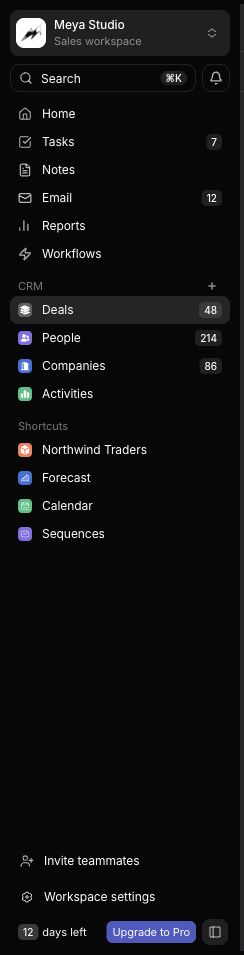
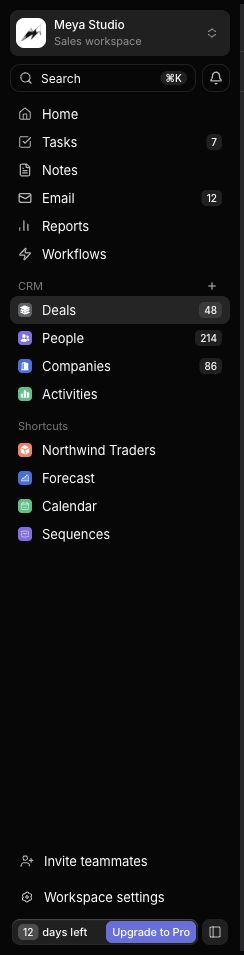
fix: restore trial glass background and enlarge sidebar menu text

diff --git a/src/styles.css b/src/styles.css
@@ -260,6 +260,7 @@ kbd {
   flex-direction: column;
 }
 .nav-item {
+  font-size: 13px;
   display: flex;
   align-items: center;
   gap: 10px;
@@ -331,8 +332,12 @@ kbd {
   align-items: center;
   padding: 2px 2px 2px 6px;
   border-radius: 8px;
+  background: #ffffff1a;
+  backdrop-filter: blur(24px);
+  box-shadow: inset 0 1px 1px #ffffff30, inset 0 -1px 1px #ffffff0a;
   flex: 1;
   font-size: 11px;
+  font-weight: 500;
   white-space: nowrap;
 }
 .trial .count {
@@ -344,7 +349,7 @@ kbd {
 }
 .upgrade {
   padding: 3px 6px;
-  background: #5059c4;
+  background: #666fdf;
   border-radius: 6px;
   line-height: 16px;
   letter-spacing: -0.11px;
